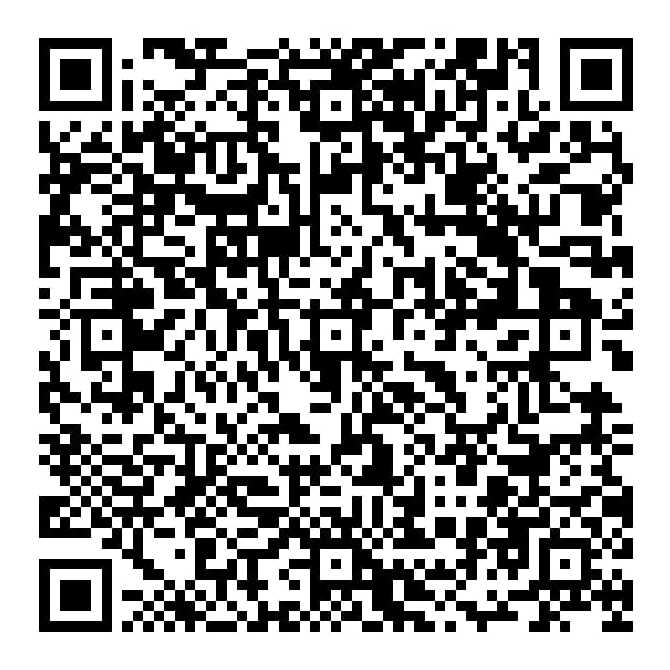
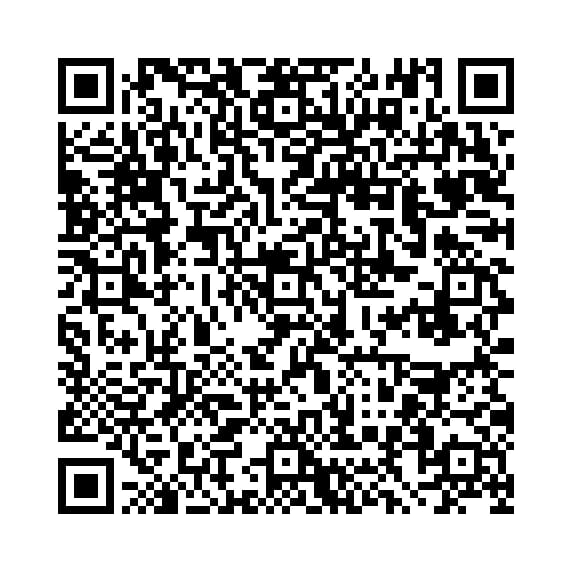
fixed iban, added:payment required

diff --git a/lib/screens/add_student_screen.dart b/lib/screens/add_student_screen.dart
@@ -21,11 +21,7 @@ class AddStudentScreen extends StatefulWidget {
   AddStudentScreenState createState() => AddStudentScreenState();
 }
 
-//TODO Make the payment option required
-
 //TODO Validation check for student ID, TC no (Digits only)
-
-//TODO Change IBAN and its QR to correct account
 
 class AddStudentScreenState extends State<AddStudentScreen> {
   final _formKey = GlobalKey<FormState>();
@@ -33,10 +29,22 @@ class AddStudentScreenState extends State<AddStudentScreen> {
   final connectivityService = Get.find<ConnectivityService>();
 
   String? selectedPayment;
+  bool showPaymentValidationMessage = false;
 
   void _submitForm() async {
     if (_formKey.currentState!.validate()) {
       // Handle form submission
+
+      if (selectedPayment == null) {
+        setState(() {
+          showPaymentValidationMessage = true;
+        });
+        return;
+      } else {
+        setState(() {
+          showPaymentValidationMessage = false;
+        });
+      }
       // You can call your add student function here
       final result = await widget.googleSheetsController.addStudents([
         Student(
@@ -226,6 +234,17 @@ class AddStudentScreenState extends State<AddStudentScreen> {
                     ],
                   ),
                 ),
+                if (showPaymentValidationMessage)
+                  Padding(
+                    padding: const EdgeInsets.only(left: 24.0),
+                    child: Text(
+                      'Lütfen bir ödeme seçeneği seçin',
+                      style: TextStyle(
+                        color: Theme.of(context).colorScheme.error,
+                        fontSize: 12,
+                      ),
+                    ),
+                  ),
                 TextButton(
                   onPressed: () {
                     showDialog(
